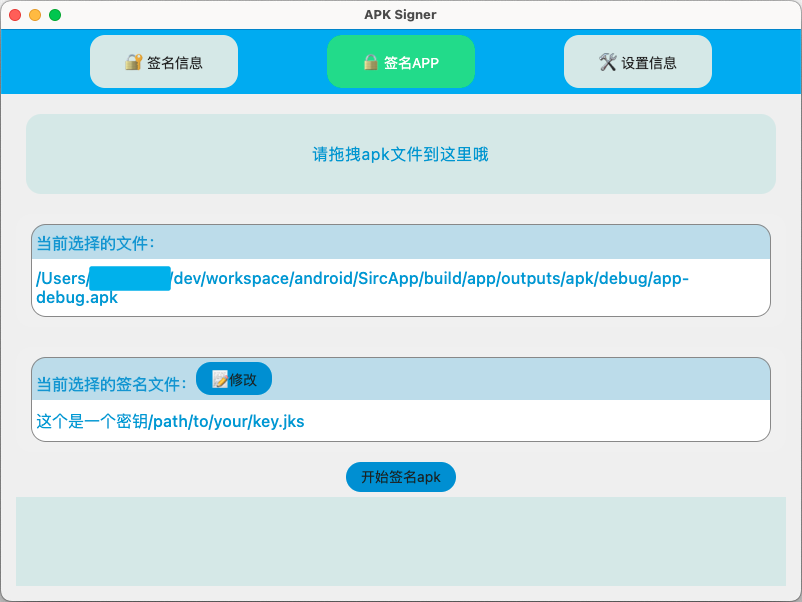
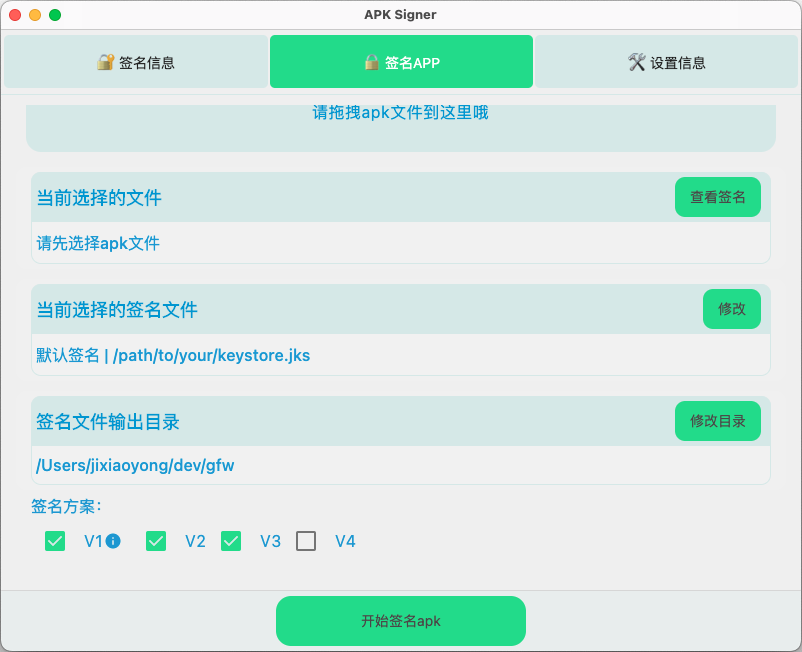
feat: 支持指定签名文件输出目录&更新文档

diff --git a/src/main/kotlin/io/github/jixiaoyong/pages/signapp/SignApp.kt b/src/main/kotlin/io/github/jixiaoyong/pages/signapp/SignApp.kt
@@ -26,6 +26,7 @@ import androidx.compose.ui.unit.dp
 import androidx.compose.ui.unit.sp
 import io.github.jixiaoyong.utils.FileChooseUtil
 import io.github.jixiaoyong.utils.SettingsTool
+import io.github.jixiaoyong.utils.StorageKeys
 import io.github.jixiaoyong.widgets.ButtonWidget
 import io.github.jixiaoyong.widgets.InfoItemWidget
 import kotlinx.coroutines.flow.flowOf
@@ -74,6 +75,7 @@ fun PageSignApp(
     }
     val apkSignType by settings.signTypeList.collectAsState(setOf())
     val selectedSignInfo by settings.selectedSignInfoBean.collectAsState(null)
+    val signedDirectory by settings.signedDirectory.collectAsState(null)
 
     var signInfoResult: CommandResult by remember { mutableStateOf(CommandResult.NOT_EXECUT) }
 
@@ -126,6 +128,12 @@ fun PageSignApp(
                                     scaffoldState.snackbarHostState.showSnackbar("请选择要签名的apk文件")
                                 } else {
                                     onChangeApk(chooseFileName)
+                                    if (!signedDirectory.isNullOrBlank()) {
+                                        settings.save(
+                                            StorageKeys.SIGNED_DIRECTORY,
+                                            chooseFileName.substringBeforeLast(File.separator)
+                                        )
+                                    }
                                     scaffoldState.snackbarHostState.showSnackbar("修改成功")
                                 }
                             }
@@ -171,6 +179,28 @@ fun PageSignApp(
                     onClick = {
                         onChangePage(Routes.SignInfo)
                     })
+
+                InfoItemWidget(
+                    "签名文件输出目录",
+                    signedDirectory ?: "请先选择签名文件输出目录",
+                    buttonTitle = "修改目录",
+                    onClick = {
+                        scope.launch {
+                            val outputDirectory =
+                                FileChooseUtil.chooseSignDirectory(
+                                    window,
+                                    "请先选择签名文件输出目录",
+                                 signedDirectory?:currentApkFilePath
+                                )
+                            if (outputDirectory.isNullOrBlank()) {
+                                scaffoldState.snackbarHostState.showSnackbar("请先选择签名文件输出目录")
+                            } else {
+                                settings.save(StorageKeys.SIGNED_DIRECTORY, outputDirectory)
+                                scaffoldState.snackbarHostState.showSnackbar("修改成功")
+                            }
+                        }
+                    }
+                )
 
                 Text(
                     "签名方案：",

diff --git a/src/main/kotlin/io/github/jixiaoyong/pages/settings/Settings.kt b/src/main/kotlin/io/github/jixiaoyong/pages/settings/Settings.kt
@@ -47,6 +47,7 @@ fun PageSettingInfo(window: ComposeWindow, settings: SettingsTool) {
         var resetSignInfo by remember { mutableStateOf(false) }
         var resetApkTools by remember { mutableStateOf(false) }
         var resetSignTypes by remember { mutableStateOf(false) }
+        var resetSignedDirectory by remember { mutableStateOf(false) }
         AlertDialog(onDismissRequest = {
             showResetDialog = false
         }, confirmButton = {
@@ -62,6 +63,9 @@ fun PageSettingInfo(window: ComposeWindow, settings: SettingsTool) {
                 }
                 if (resetSignTypes) {
                     settings.save(StorageKeys.SIGN_TYPE_LIST, null)
+                }
+                if (resetSignedDirectory) {
+                    settings.save(StorageKeys.SIGNED_DIRECTORY, null)
                 }
             }, title = "确定")
 
@@ -87,6 +91,12 @@ fun PageSettingInfo(window: ComposeWindow, settings: SettingsTool) {
                         checked = resetSignTypes,
                         onCheckedChange = { resetSignTypes = !resetSignTypes })
                     Text("签名方案")
+                }
+                Row(verticalAlignment = Alignment.CenterVertically) {
+                    Checkbox(
+                        checked = resetSignedDirectory,
+                        onCheckedChange = { resetSignedDirectory = !resetSignedDirectory })
+                    Text("签名文件输出目录")
                 }
             }
         })

diff --git a/src/main/kotlin/io/github/jixiaoyong/utils/SettingsTool.kt b/src/main/kotlin/io/github/jixiaoyong/utils/SettingsTool.kt
@@ -27,6 +27,7 @@ interface KeyValueStorage {
 
     val apkSigner: Flow<String?>
     val zipAlign: Flow<String?>
+    val signedDirectory: Flow<String?>
     val signTypeList: Flow<Set<Int>>
     val selectedSignInfoBean: Flow<SignInfoBean?>
     val signInfoBeans: Flow<List<SignInfoBean>>
@@ -40,6 +41,7 @@ enum class StorageKeys {
     ZIP_ALIGN_PATH,
     SIGN_INFO_SELECT,
     SIGN_INFO_LIST,
+    SIGNED_DIRECTORY,
     SIGN_TYPE_LIST;
 
     val key get() = this.name
@@ -53,6 +55,8 @@ class SettingsTool(private val scope: CoroutineScope) : KeyValueStorage {
         get() = observableSettings.getStringOrNullFlow(StorageKeys.APK_SIGNER_PATH.key)
     override val zipAlign: Flow<String?>
         get() = observableSettings.getStringOrNullFlow(StorageKeys.ZIP_ALIGN_PATH.key)
+    override val signedDirectory: Flow<String?>
+        get() = observableSettings.getStringOrNullFlow(StorageKeys.SIGNED_DIRECTORY.key)
     override var signTypeList: Flow<Set<Int>>
         get() = observableSettings.getStringOrNullFlow(StorageKeys.SIGN_TYPE_LIST.key).map {
             return@map if (it.isNullOrBlank()) SignType.DEF_SIGN_TYPES.map { it.type }.toSet()

diff --git a/src/main/kotlin/io/github/jixiaoyong/pages/signInfos/SignInfos.kt b/src/main/kotlin/io/github/jixiaoyong/pages/signInfos/SignInfos.kt
@@ -203,8 +203,8 @@ private fun SignInfoItem(
         modifier = modifier.padding(horizontal = 10.dp, vertical = 5.dp).fillMaxWidth(),
         verticalAlignment = Alignment.CenterVertically
     ) {
-        Text(name, modifier = Modifier.weight(0.3f))
-        Row(modifier = Modifier.weight(0.7f), verticalAlignment = Alignment.CenterVertically) {
+        Text(name, modifier = Modifier.weight(0.25f))
+        Row(modifier = Modifier.weight(0.75f), verticalAlignment = Alignment.CenterVertically) {
             TextField(
                 value,
                 onValueChange = onChange,

diff --git a/src/main/kotlin/io/github/jixiaoyong/widgets/InfoItemWidget.kt b/src/main/kotlin/io/github/jixiaoyong/widgets/InfoItemWidget.kt
@@ -35,9 +35,9 @@ fun InfoItemWidget(
     val headerBackground = MaterialTheme.colors.surface
     val rounderRadius = 10.dp
     Column(
-        modifier = Modifier.padding(vertical = 10.dp)
+        modifier = Modifier.padding(vertical = 5.dp)
             .background(color = MaterialTheme.colors.background, shape = RoundedCornerShape(rounderRadius))
-            .padding(horizontal = 15.dp, vertical = 10.dp)
+            .padding(horizontal = 15.dp, vertical = 5.dp)
             .border(1.dp, color = headerBackground, shape = RoundedCornerShape(rounderRadius))
     ) {
         Row(

diff --git a/src/main/kotlin/io/github/jixiaoyong/utils/FileChooseUtil.kt b/src/main/kotlin/io/github/jixiaoyong/utils/FileChooseUtil.kt
@@ -46,6 +46,6 @@ object FileChooseUtil {
         jFileChooser.currentDirectory = oldDirectory?.let { File(it) }
         jFileChooser.fileSelectionMode = JFileChooser.DIRECTORIES_ONLY
         jFileChooser.showDialog(window.glassPane, "选择")
-        return jFileChooser.currentDirectory.absolutePath
+        return jFileChooser.selectedFile?.parent
     }
 }

diff --git a/README.md b/README.md
@@ -22,25 +22,28 @@ A tool for Android developers to sign their applications with GUI software.
 <br/>
 <br/>
 
+起因是 Flutter 打包出来的工程在360加固时提示“没有签名”，但360加固提供的签名过程又过于繁琐，故此开发这样一个小工具，使用图形界面来签名APK文件。
+
 🚧 目前界面功能还在持续完善中，基础签名功能可用。
-
-TODO：
-
-- [x] 添加打开已签名文件的功能；
-
-- [ ] 添加可以自定义签名文件输出地址的功能；
-
-- [x] 查看APK已有签名信息；
-
-- [x] 添加删除签名功能。
 
 # 主要功能
 
-支持在管理多个签名，并且可以切换，一键签名APK。
+支持管理多个签名，并且可以切换，一键签名APK。
+
+- [x] 增/删/切换签名信息；
+
+- [x] 签名APK文件，支持V1，V2，V3，V4方案
+
+- [x] 指定签名APK输出目录
+
+- [x] 查看APK已有签名信息；
+
+- [x] 支持Light和Dark主题
+
+
+# 界面预览
 
 <br/>
-
-起因是 Flutter 打包出来的工程在360加固时提示“没有签名”，但360加固提供的签名过程又过于繁琐，故此开发这样一个小工具，使用图形界面来签名APK文件。
 
 ![sign_info](./docs/shortscreen/sign_info.png)
 ![sign_app](./docs/shortscreen/sign_app.png)
@@ -49,21 +52,7 @@ TODO：
 # 使用
 
 以下方式选择你喜欢的即可
-
-## 1. 编译源码
-
-* 下载源码后，使用 IDEA 打开并运行 Main.kt 文件即可启动图形化界面。
-
-## 2. 运行 jar 包
-
-1. 自行使用jar打包命令`./gradlew packageReleaseUberJarForCurrentOS`打包
-
-2. 运行`java -jar xxx.jar`即可启动软件
-
-针对 MAC 用户，可以考虑使用 [jar2app](https://github.com/dante-biase/jar2app)
-将 jar 打包为 app 使用，避免繁琐的 mac 系统签名过程。
-
-## 3. 运行 .dmg 或 .msi 等系统特定软件包
+## 1. 运行 .dmg 或 .msi 等系统特定软件包【推荐👍】
 
 * 直接运行本仓库提供的对应软件包
 
@@ -77,3 +66,17 @@ packageReleaseDmg
 packageReleaseMsi
 packageReleaseDistributionForCurrentOS
 ```
+
+## 2. 编译源码
+
+* 下载源码后，使用 IDEA 打开并运行 Main.kt 文件即可启动图形化界面。
+
+## 3. 运行 jar 包
+
+1. 自行使用jar打包命令`./gradlew packageReleaseUberJarForCurrentOS`打包
+
+2. 运行`java -jar xxx.jar`即可启动软件
+
+针对 MAC 用户，可以考虑使用 [jar2app](https://github.com/dante-biase/jar2app)
+将 jar 打包为 app 使用，避免繁琐的 mac 系统签名过程。
+
